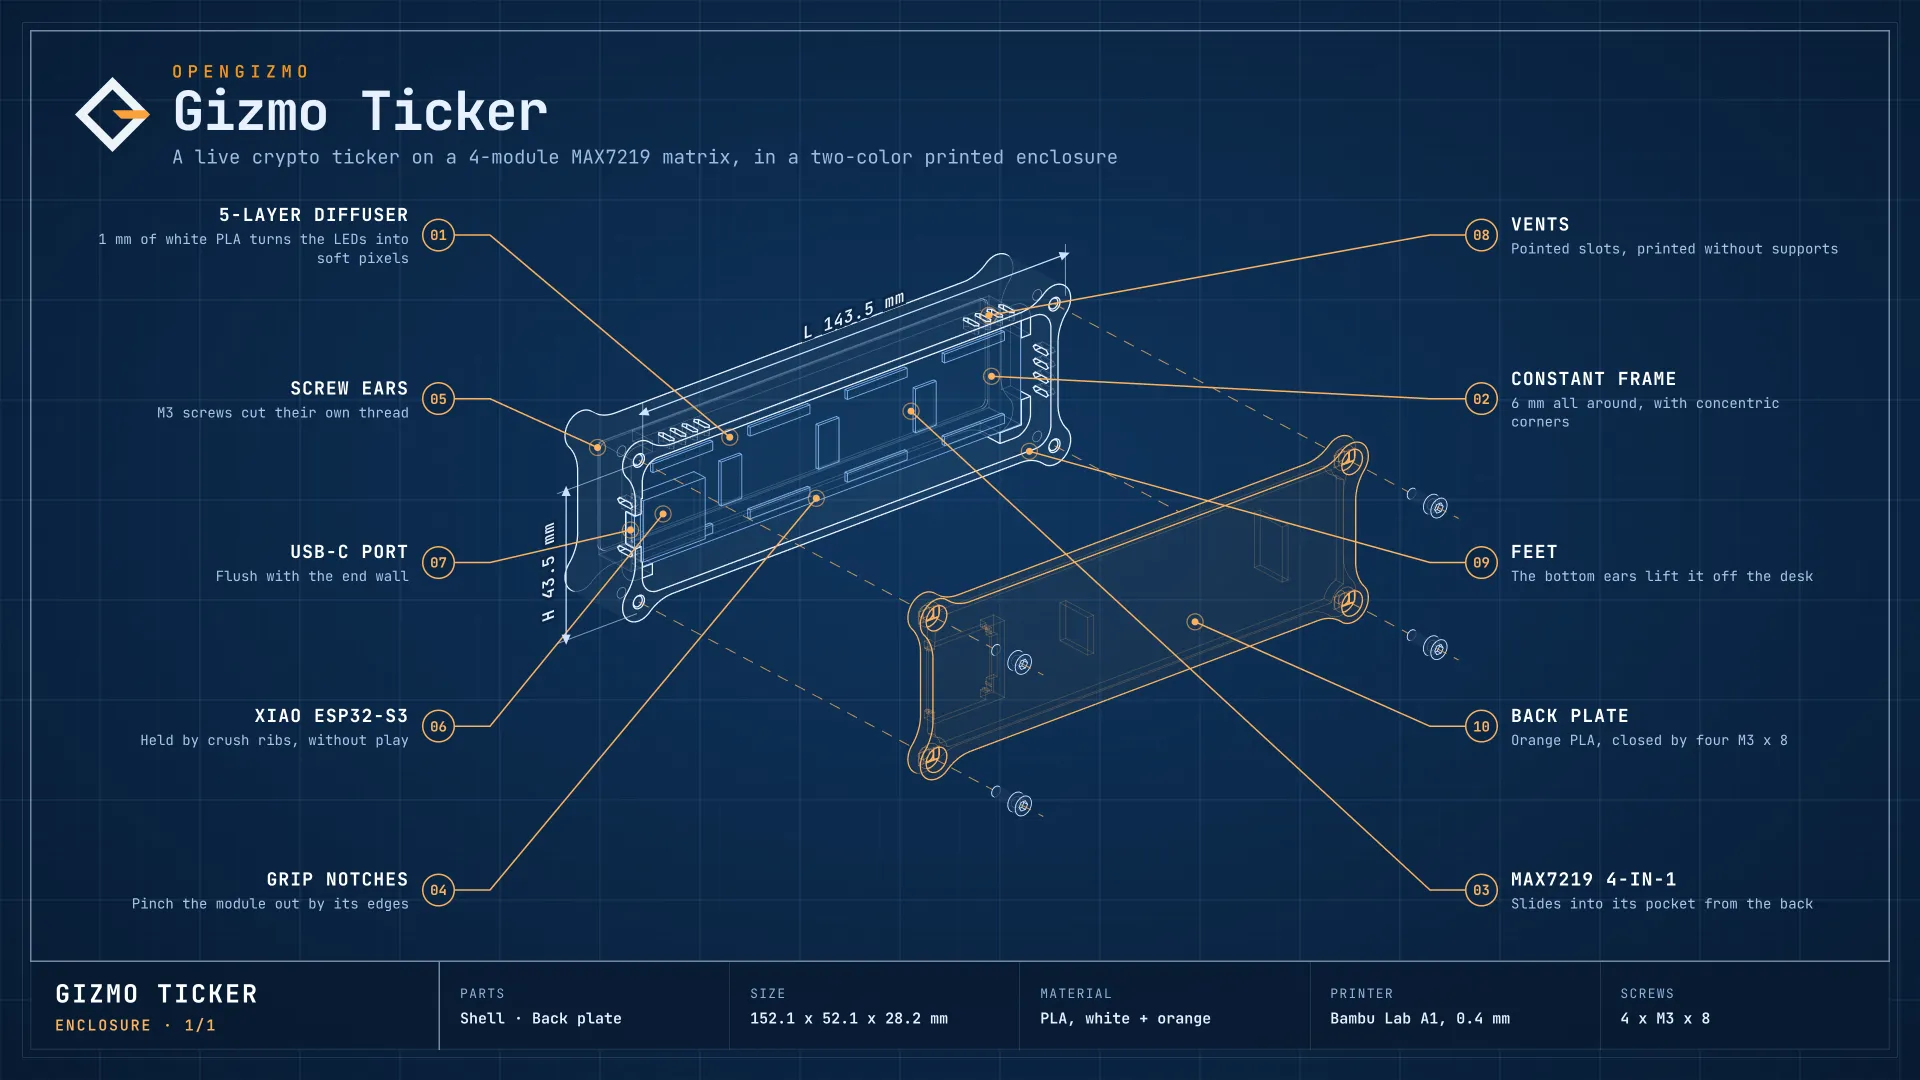
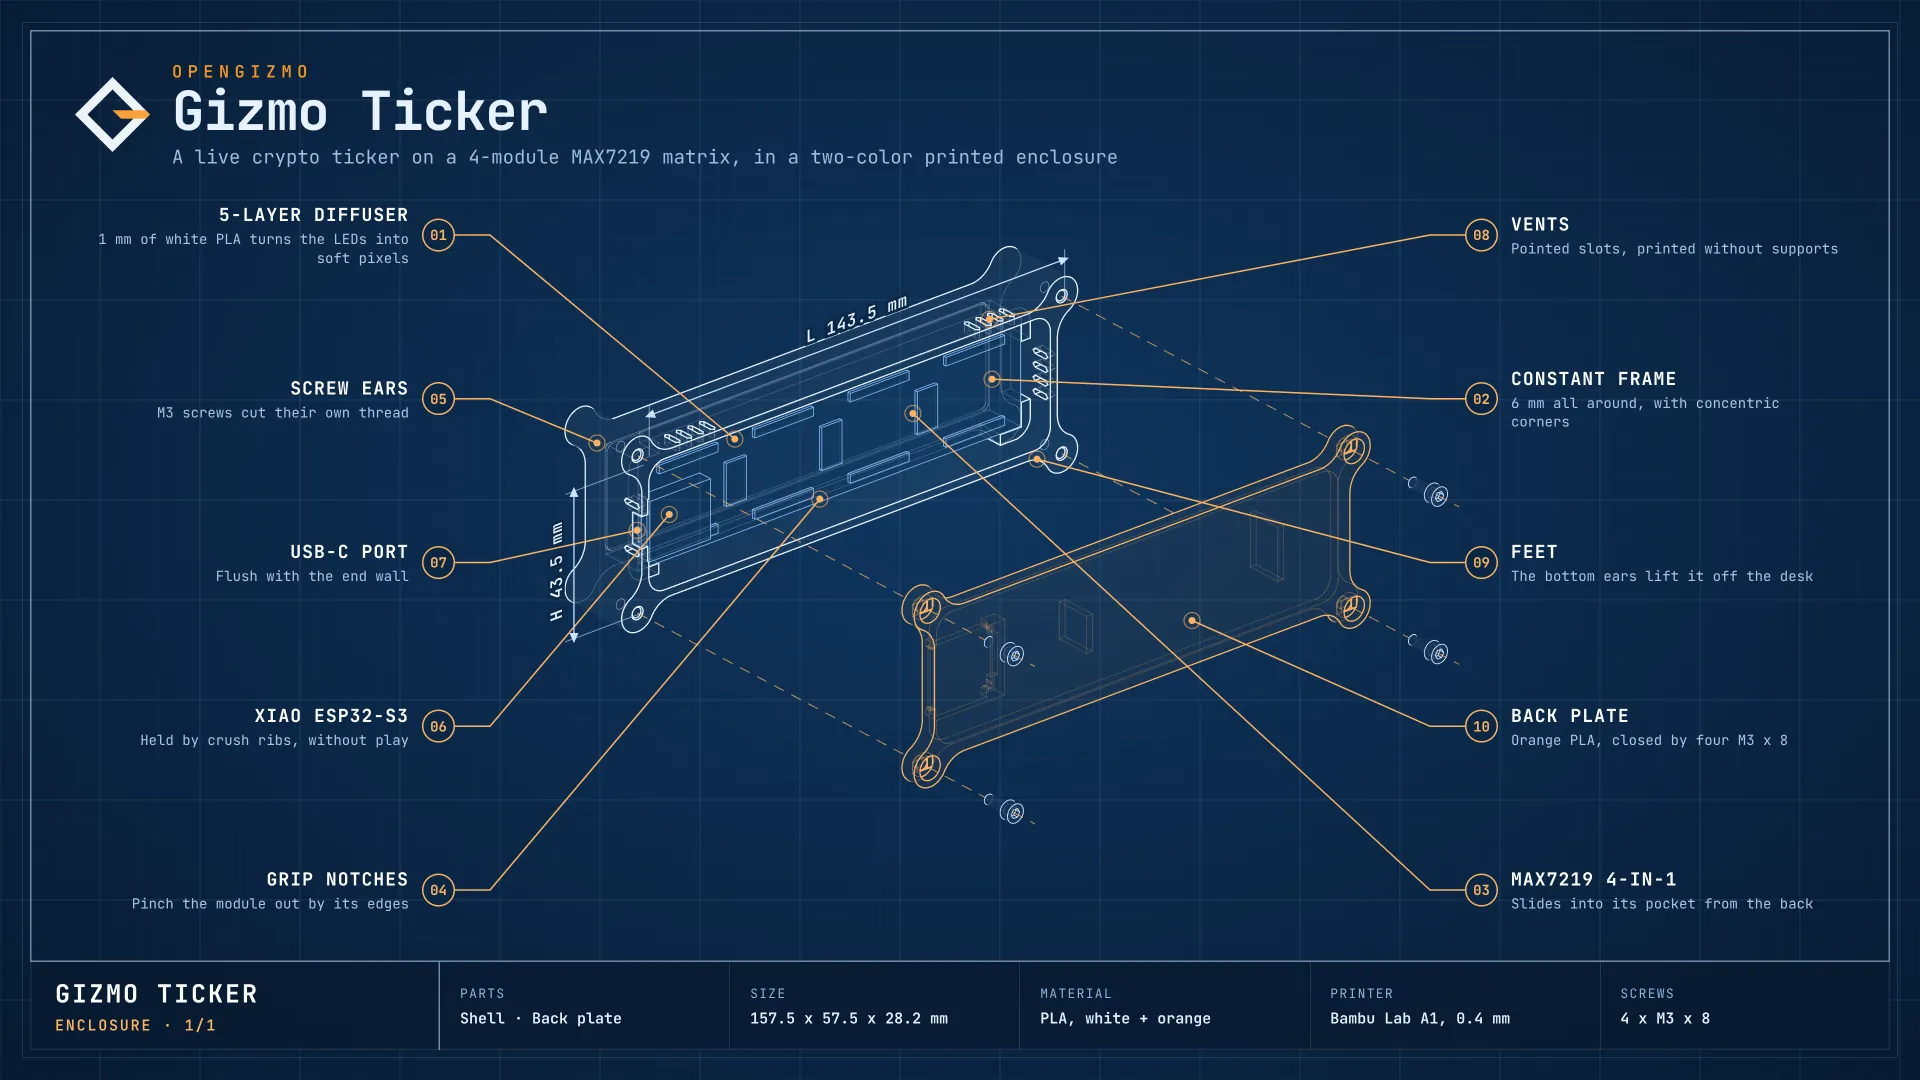
Enclosure images: the ears sit like the camera's, with 8 mm curves
The ticker grows to 157.5 x 57.5 mm, with the same corners as the camera.

Claude-Session: https://claude.ai/code/session_01Beyeb2bLs5RNeVFbkiFgPU

diff --git a/CHANGELOG.md b/CHANGELOG.md
@@ -5,7 +5,7 @@ What changed in each release. New notes go under **Unreleased** while the work i
 ## Unreleased
 
 - The ticker describes itself to AI agents: a Markdown guide at `http://gizmo-ticker.local/llms.txt` explains what it shows and how to read its settings, with its address filled in. Flash the new firmware to get it.
-- New enclosure look: round screw ears at the corners that flow into the body with soft curves, like the other OpenGizmo gadgets, and a thinner 6 mm frame around the LEDs. It's a bit smaller (152.1 x 52.1 mm instead of 153.6 x 53.6) and stands on its two bottom ears instead of the rails. The four M3 x 8 screws go through the ears, outside the body, and sit flush in the back plate. The parts inside and the wiring are the same, so there's nothing to flash or rewire: print the new shell and back plate only if you want the new look.
+- New enclosure look: round screw ears at the corners that flow into the body with soft curves, like the other OpenGizmo gadgets, and a thinner 6 mm frame around the LEDs. It's a bit bigger (157.5 x 57.5 mm instead of 153.6 x 53.6) and stands on its two bottom ears instead of the rails. The four M3 x 8 screws go through the ears, outside the body, and sit flush in the back plate. The parts inside and the wiring are the same, so there's nothing to flash or rewire: print the new shell and back plate only if you want the new look.
 
 ## v1.2.1 - 2026-11-14
 
